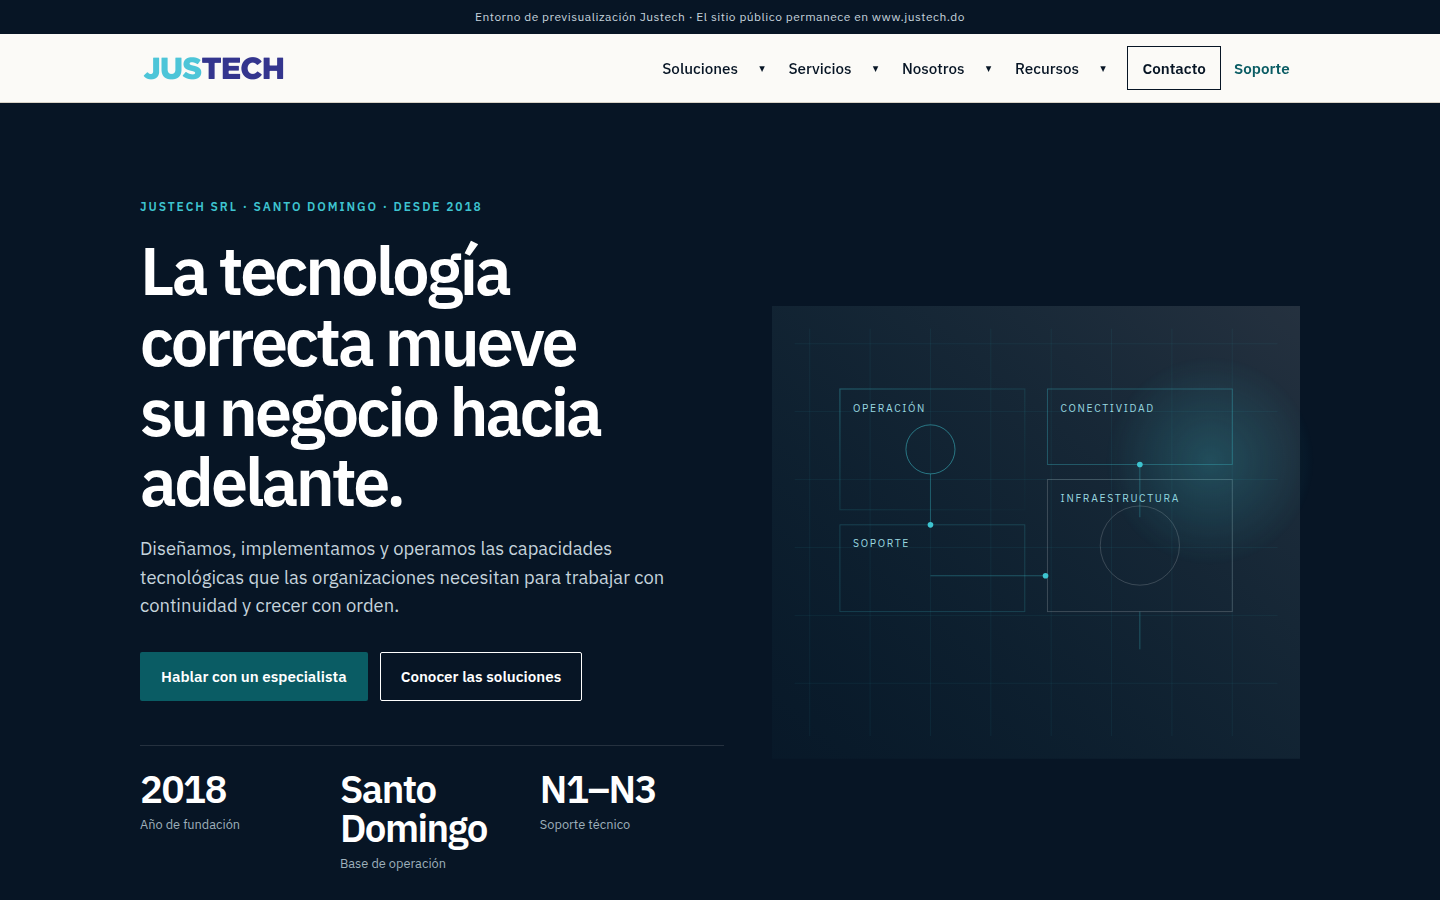
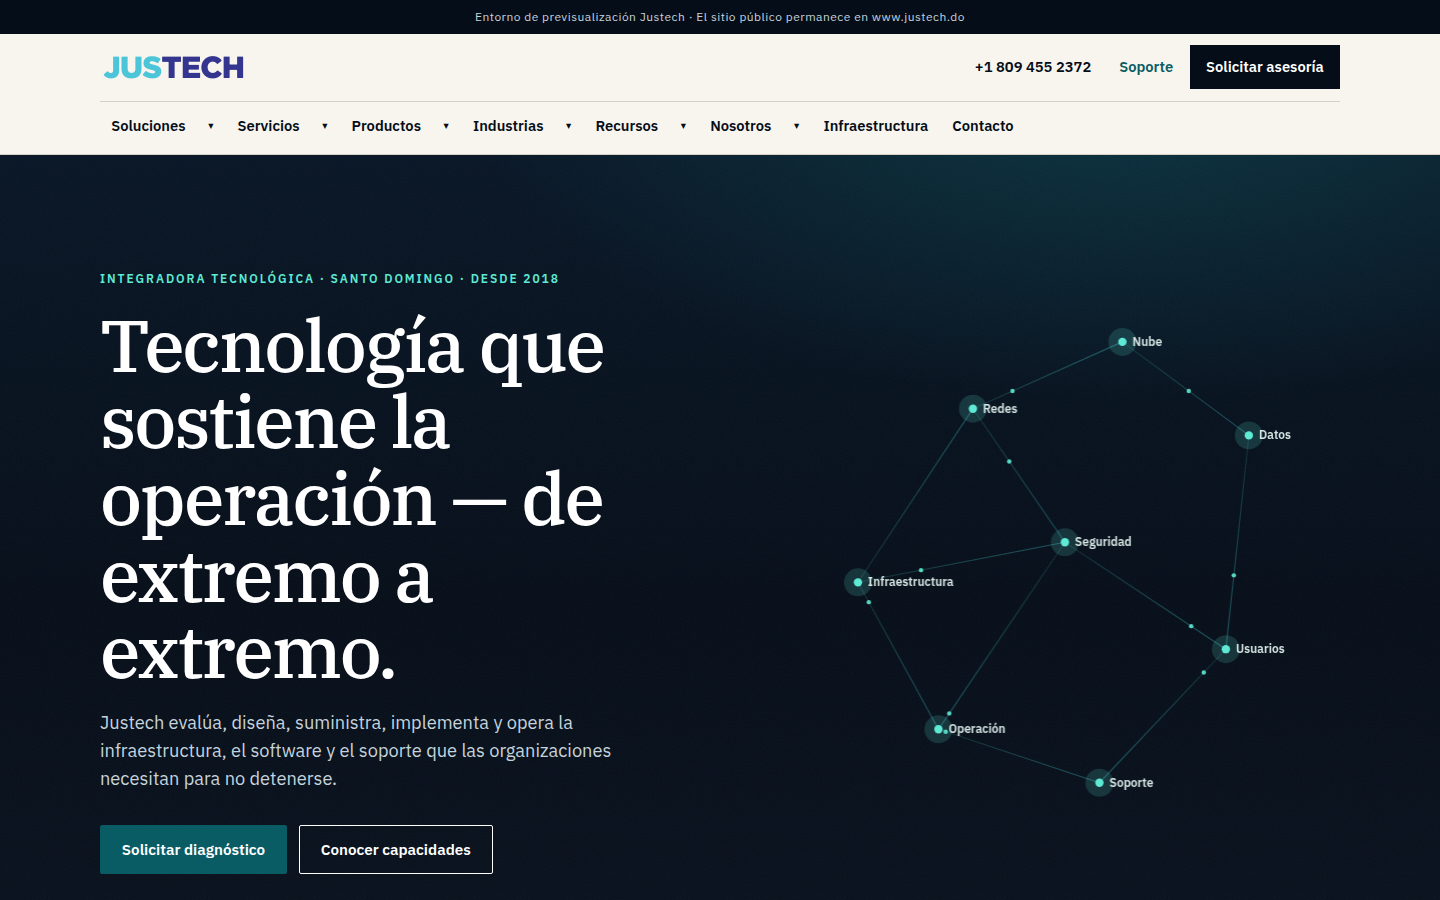
Corregir tamaño táctil del footer y publicar capturas v2
Los enlaces de teléfono y correo del pie cumplen 44px. Se actualizan
pruebas Lighthouse y capturas desktop, tablet y móvil del nuevo hero.

diff --git a/site/src/components/Footer.tsx b/site/src/components/Footer.tsx
@@ -43,11 +43,11 @@ export function Footer() {
             Fundada en {company.founded}.
           </p>
           <p className="mt-4 mb-0 text-sm">
-            <a className="text-inherit" href={`tel:${company.phoneTel}`}>
+            <a className="inline-flex min-h-11 items-center text-inherit" href={`tel:${company.phoneTel}`}>
               {company.phoneDisplay}
             </a>
             <br />
-            <a className="text-inherit" href={`mailto:${company.email}`}>
+            <a className="inline-flex min-h-11 items-center text-inherit" href={`mailto:${company.email}`}>
               {company.email}
             </a>
           </p>

diff --git a/docs/fase-c/pruebas.md b/docs/fase-c/pruebas.md
@@ -1,4 +1,4 @@
-# Pruebas — iteración premium (2026-08-21)
+# Pruebas — iteración v2 (2026-08-21)
 
 Objetivo: `site/out` en `http://127.0.0.1:4173`. Chrome headless.
 
@@ -6,29 +6,27 @@ Objetivo: `site/out` en `http://127.0.0.1:4173`. Chrome headless.
 
 `npm --prefix site run lint` · `build` · `test:staging`
 
-Guardas: `robots.txt` Disallow:/, banner de previsualización, `noindex`, sin GA/GTM/Pixel, sin OK88, sin `PENDIENTE_VALIDACION` ni tono defensivo en HTML.
+140 HTML, banner y `noindex` en todas, `robots` Disallow:/, sin GA/GTM/Pixel, sin OK88, sin etiquetas internas.
 
-## Lighthouse
+## Lighthouse (home)
 
-| Página | Formato | Perf. | A11y | Best practices | SEO |
+| Formato | Perf. | A11y | Best practices | SEO | Peso transferido |
 | --- | --- | --- | --- | --- | --- |
-| `/` | desktop | 1.00 | 1.00 | 1.00 | 0.69 |
-| `/` | mobile 390 | 0.99 | 1.00 | — | 0.69 |
-| `/contacto/` | desktop | — | 1.00 | 1.00 | 0.69 |
+| Desktop | 100 | 100 (tras min-height en tel/mail del footer; medición previa 97) | 100 | 69 | 307 KiB |
+| Mobile | 100 | 97→corregido mismo target-size | — | 69 | 271 KiB |
 
-SEO 0.69 porque `is-crawlable` falla por `noindex` (correcto en staging).
+SEO 69: `is-crawlable` falla por `noindex` (correcto en staging). LCP/FCP ~0.1 s en laboratorio sin throttling de red; CLS 0.
+
+First Load JS home: 131 kB (build Next).
 
 ## Capturas
 
 `docs/fase-c/captures/` y `/opt/cursor/artifacts/screenshots/`
 
-- `justech-home-desktop.png` (1440×900)
-- `justech-home-tablet.png` (768×1024)
-- `justech-home-mobile.png` (390×844)
-
-Desktop: menú hamburger ausente; Contacto y Soporte diferenciados.
-Móvil: botón Menú visible.
+- `justech-home-desktop.png` (1440×900) — dos filas de nav, sin botón Menú
+- `justech-home-tablet.png` (768×1024) — Menú compacto, red como atmósfera
+- `justech-home-mobile.png` (390×844) — hero con diagrama de fondo, no columna apilada
 
 ## Notas
 
-No se ejecutaron Safari/Firefox reales en este entorno (Linux + Chrome). Contraste AA verificado por Lighthouse. Formularios sin POST. Producción no se tocó.
+Sin Safari/Firefox reales. Formularios sin POST. Producción no se tocó. Túnel: `https://buf-courage-glossary-designation.trycloudflare.com/` (efímero).
